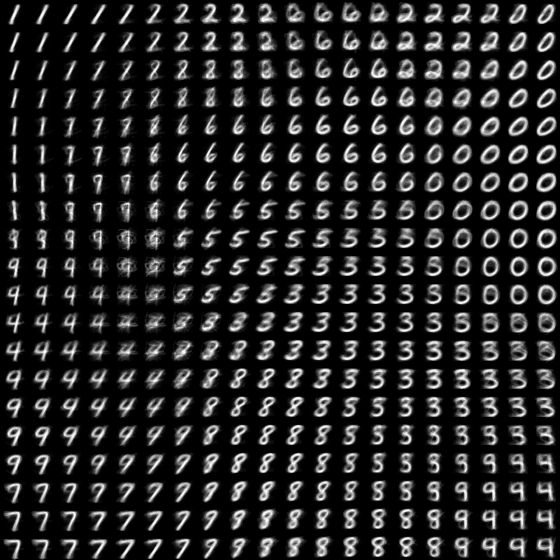
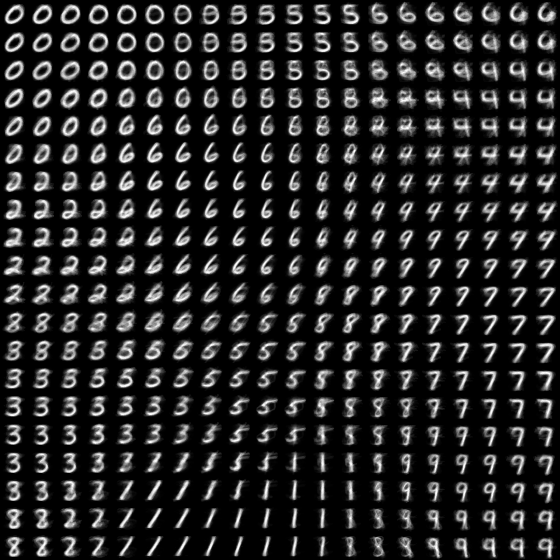
added landscape

diff --git a/som.py b/som.py
@@ -1,6 +1,7 @@
 import numpy
 from sklearn.decomposition import RandomizedPCA
 
+
 class SOM():
     def __init__(self, x, y):        
         self.map = []
@@ -46,10 +47,8 @@ class SOM():
     
     def transform(self, X):
         # We simply compute the dot product of the input with the transpose of the map to get the new input vectors
-        res = numpy.dot(X,self.map.T)
-        
-        # We scale down new input vectors to values between 0 and 1
-        res = res / (numpy.sum(self.map, axis=1))
+        res = numpy.dot(numpy.exp(X),numpy.exp(self.map.T))/numpy.sum(numpy.exp(self.map), axis=1)
+        res = res / (numpy.exp(numpy.max(res)) + 1e-8)
         return res
      
     def iterate(self, vector):  
@@ -111,10 +110,13 @@ def demo():
     img = Image.fromarray(W)
     img.save("som_results.png")
     
-    # creating new inputs
-    #newX = cl.transform(X)
     
-    return cl.map, X, y
+    # creating new inputs
+    X = cl.transform(X)
+   
+    # we can plot "landscape" 3d to view the map in 3d
+    landscape = cl.transform(numpy.ones((1,28**2)))
+    return cl.map, X, y,landscape
     
     
 if __name__ == '__main__':
